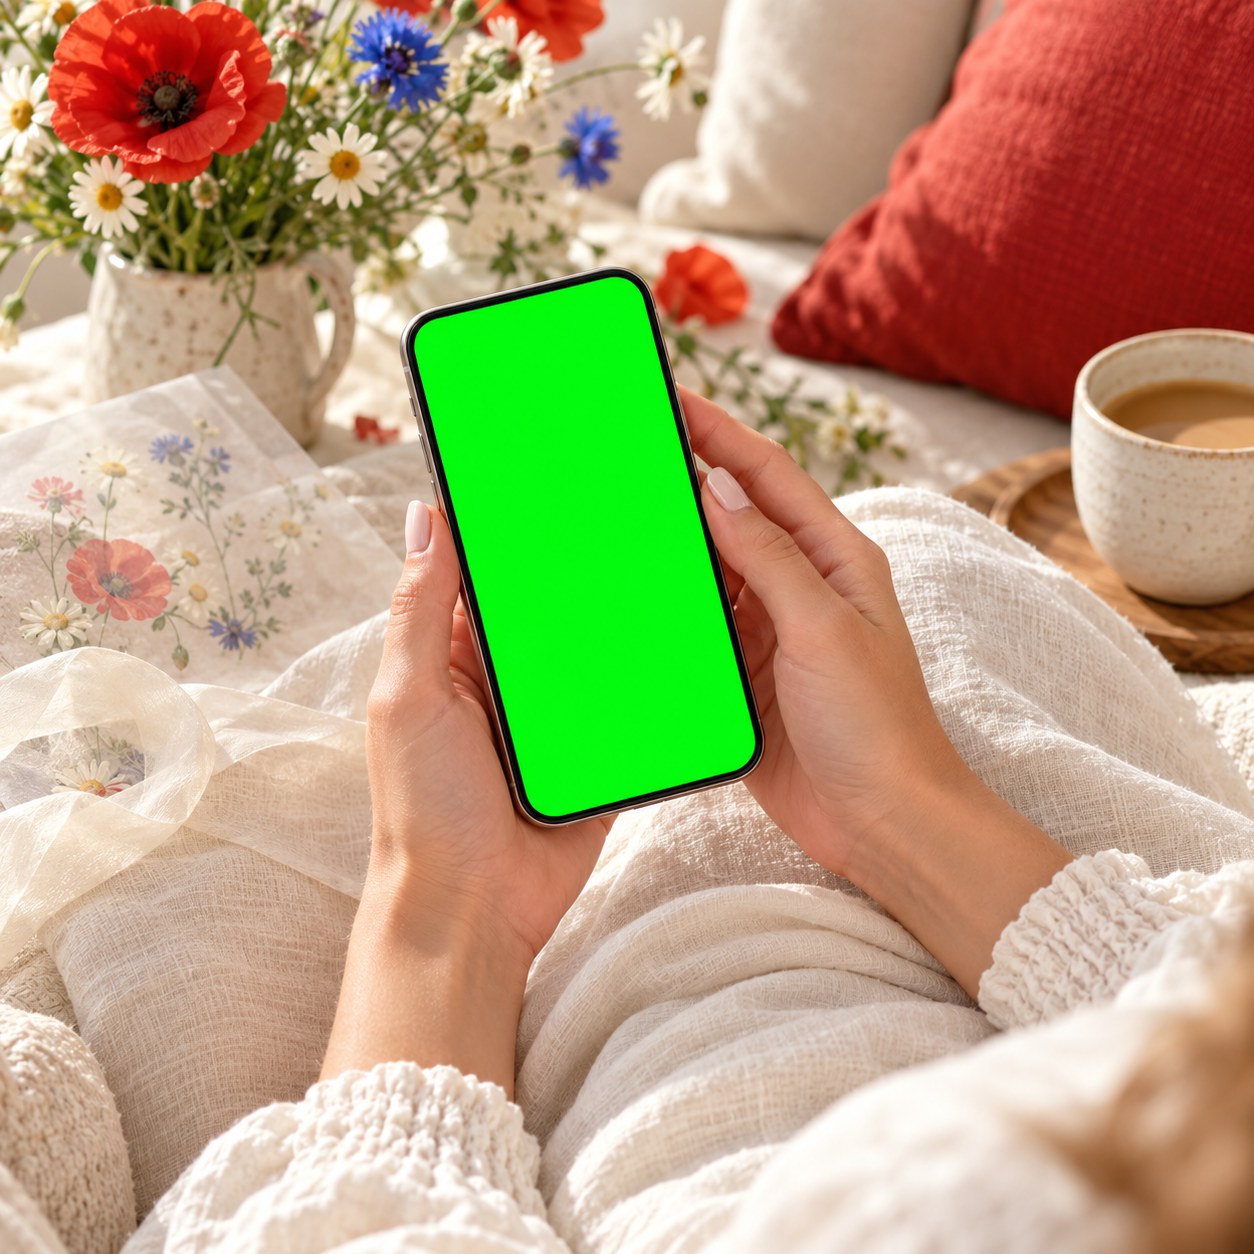
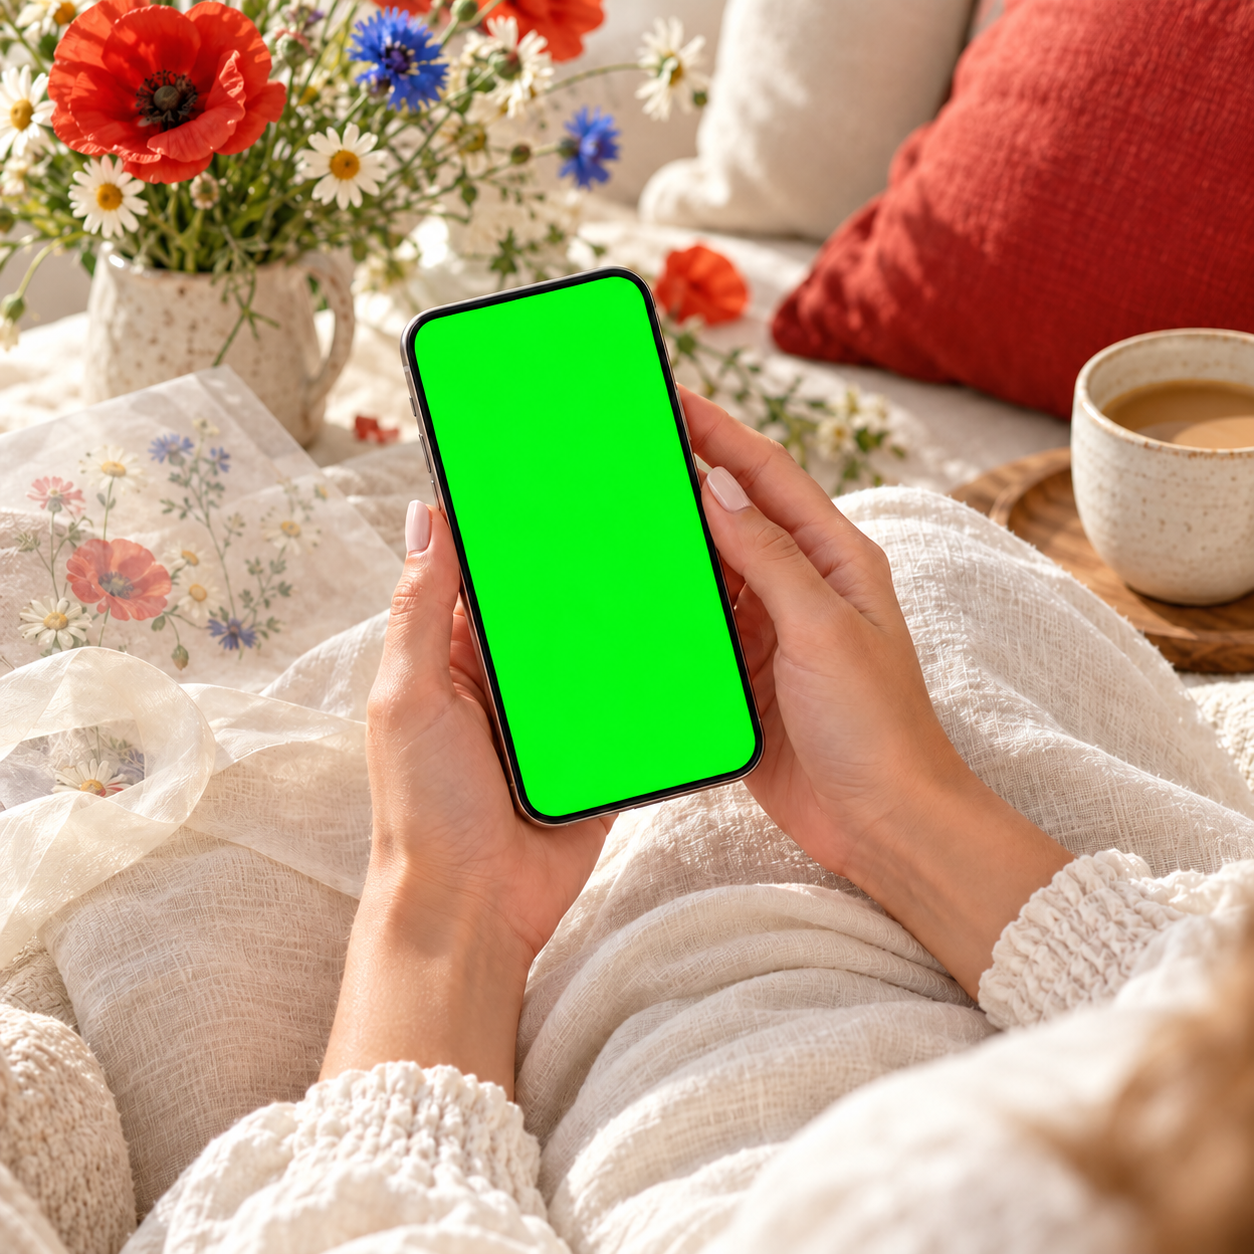
G818: görseller (inceleme)

diff --git a/gorevler/G818-mockup.md b/gorevler/G818-mockup.md
@@ -2,7 +2,7 @@
 id: G818
 baslik: Tasarım 18 Wildflower Meadow Vellum — Etsy ilan sahneleri (Paket 3: 5 fotoğraf gerçekliğinde sahne, ekranlar #00FF00)
 rol: gpt-gorsel
-durum: alindi
+durum: inceleme
 alan: gpt-ui-site
 oncelik: 2
 bagimli: []
@@ -27,10 +27,15 @@ Pilot: 01/03 (G801/G803).
 4. Ara kayıt: 2 sahnede bir commit + push (kullanıcı talebi, 2026-10-14). Kontrol: `python3 tools/kit_check.py collections/18_Wildflower_Vellum --paket 3`.
 
 ## Bitti sayılması için
-- [ ] 5 sahne doğru yolda; `kit_check --paket 3` 5/5 geçti
-- [ ] Sonuç'ta yeniden üretilenler ve emin olunmayan noktalar
+- [x] 5 sahne doğru yolda; `kit_check --paket 3` 5/5 geçti
+- [x] Sonuç'ta yeniden üretilenler ve emin olunmayan noktalar
 
 ## Sonuç
+- PAKET 3 talimat bloğu ve 3.1–3.5 prompt'ları tek sohbette, sırasıyla ve aynen kullanıldı. Beş fotoğraf sahnesi `collections/18_Wildflower_Vellum/assets/gpt/mockups/` içinde sade adlarıyla kaydedildi: `cover_hand.png`, `three_phones.png`, `laptop_phone.png`, `flatlay_phone.png`, `hand_phone_edit.png`.
+- Seçilen imagegen sürümleri: `cover_hand_v3.png`, `three_phones_v2.png`, `laptop_phone_v3.png`, `flatlay_phone_v2.png`, `hand_phone_edit_v2.png`. Kapak ilk denemede fazla yukarıdaydı; v2'de telefon ve çiçekler aşağı alındı. Laptop ilk denemede tuş yazıları içeriyordu; v2'de tuşlar boş üretildi. Son turda kullanıcının yalnız imagegen talebiyle beş sahnenin tümü saf ekran rengi için yeniden üretildi; Python ile piksel düzenlemesi yapılmadı. Önceki denemeler `_v1`, `_v2`, `_v3` adlarıyla korundu.
+- Görsel kontrol: kapakta üstte geniş sakin başlık alanı; masa sahnesinde sol üçte bir metin alanı; bütün ekranların dört köşesi açık; parmak, çiçek veya vellum ekrana binmiyor. Seçilen görsellerde logo, yazı, tuş harfi ve filigran görülmedi. Ekranlar opak. Kare çıktılar 1254×1254, yatay çıktılar 1536×1024; hedef oranlar korundu.
+- Çalıştırıldı: `python3 tools/kit_check.py collections/18_Wildflower_Vellum --paket 3` → **5/5 geçti** (ekran sayıları 1/3/2/1/1). Her iki sahnede ara commit + `git pull --rebase origin main` + `git push origin HEAD:main` uygulandı. Ek önizleme, metrik veya rapor dosyası oluşturulmadı.
+- **Kalan eksik: tam saf #00FF00 şartı karşılanmadı.** Imagegen yeniden üretimlerinde de küçük RGB sapmaları kaldı. Salt okunur piksel kontrolünde baskın ekran renkleri sırasıyla `(4,251,26)`, `(3,246,8)`, `(6,248,20)`, `(3,250,3)`, `(3,249,16)`; bunlar `(0,255,0)` değildir. `kit_check` renk toleransı kullandığından 5/5 sonucu bu kesin renk şartını doğrulamaz. İncelemede bu fark dikkate alınmalı; bütün şartların eksiksiz sağlandığı iddia edilmiyor.
 
 ## Günlük
 - 2026-10-13 blokaj: K22 (kullanıcı, 2026-10-13): videodan çıkıldı, ürün yalnız mobil öncelikli website. Yeni website standardı pilotla (G035) belirlenince yeniden tanımlanacak
@@ -40,3 +45,4 @@ Pilot: 01/03 (G801/G803).
 - 2026-10-14 ara kayıt (3.3–3.4): laptop + telefon ve masa üstü sahnesi kaydedildi; laptop tuşlarındaki yazılar kaldırıldı (laptop_phone_v2 seçildi); iki sahnenin oran/ekran kontrolleri geçti.
 - 2026-10-14 ara kayıt (3.1–3.2 yeniden üretim): kullanıcının yalnız imagegen talebiyle saf renk talimatı güçlendirilerek cover_hand_v3 ve three_phones_v2 üretildi; oran/ekran kontrolleri geçti. Piksel rengi son kontrolde ayrıca doğrulanacak.
 - 2026-10-14 ara kayıt (3.3–3.4 yeniden üretim): yalnız imagegen ile laptop_phone_v3 ve flatlay_phone_v2 üretildi; yazısız tuşlar ve açık ekran köşeleri korundu; oran/ekran kontrolleri geçti.
+- 2026-10-14 üretim ve kontroller bitti, incelemeye gönderildi: gpt-ui-site; 5/5 kit kontrolü geçti, kesin #00FF00 renk farkı Sonuç'a kaydedildi.
